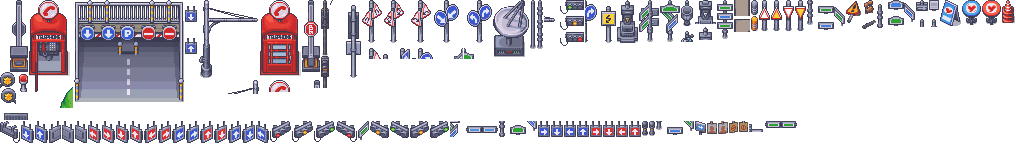
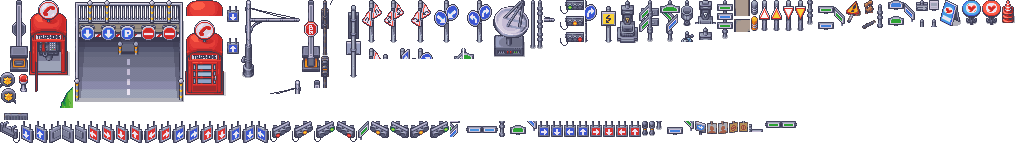
Fix live agent sync (named SSE events were never dispatched) + phone box crop
Two bugs:

- The server writes every SSE frame as a NAMED event (event: agent.moved
  ...), and EventSource.onmessage only fires for UN-named frames — so no
  live world event ever reached the EventBus. The town looked alive only
  because the snapshot's recentEvents replayed on load; agent moves
  appeared after a refresh, never live. WorldClient now addEventListeners
  every contract event type (worldEventTypes), keeping onmessage as a
  defensive fallback.

- red-telephone-box's catalog rect was off by one row: it cut off the
  dome roof (row 11) and included the NEXT kiosk's sign-disc top
  (row 17) as a red sliver at the sprite's base. Rect shifted to rows
  11-16; re-cropped and re-packed.

Changed region(s): [[0.1831, 0.0, 0.3051, 0.6667]]

diff --git a/apps/web/src/game/systems/WorldClient.ts b/apps/web/src/game/systems/WorldClient.ts
@@ -6,6 +6,7 @@ import {
   CreateChatResponse,
   GetChatResponse,
   ChatStreamFrame,
+  worldEventTypes,
   type AgentId,
   type LocationId,
 } from '@town/contract';
@@ -308,7 +309,18 @@ export class WorldClient {
       this.reconnectAttempt = 0;
     };
 
-    es.onmessage = (msg) => this.handleStreamMessage(msg);
+    // The server writes every frame as a NAMED event (`event: agent.moved` …),
+    // and EventSource only fires `onmessage` for UN-named frames — a named
+    // event needs its own addEventListener or it is silently dropped. This was
+    // the "agents only move after a refresh" bug: live frames never dispatched;
+    // the snapshot's recentEvents replay on load did all the visible work.
+    const onFrame = (msg: MessageEvent) => this.handleStreamMessage(msg);
+    for (const type of worldEventTypes) {
+      es.addEventListener(type, onFrame);
+    }
+    // Un-named frames (defensive: any future server change back to default
+    // frames keeps working) — heartbeats are named, so this is quiet today.
+    es.onmessage = onFrame;
 
     es.onerror = () => {
       // EventSource auto-reconnects, but a closed connection (server down) needs